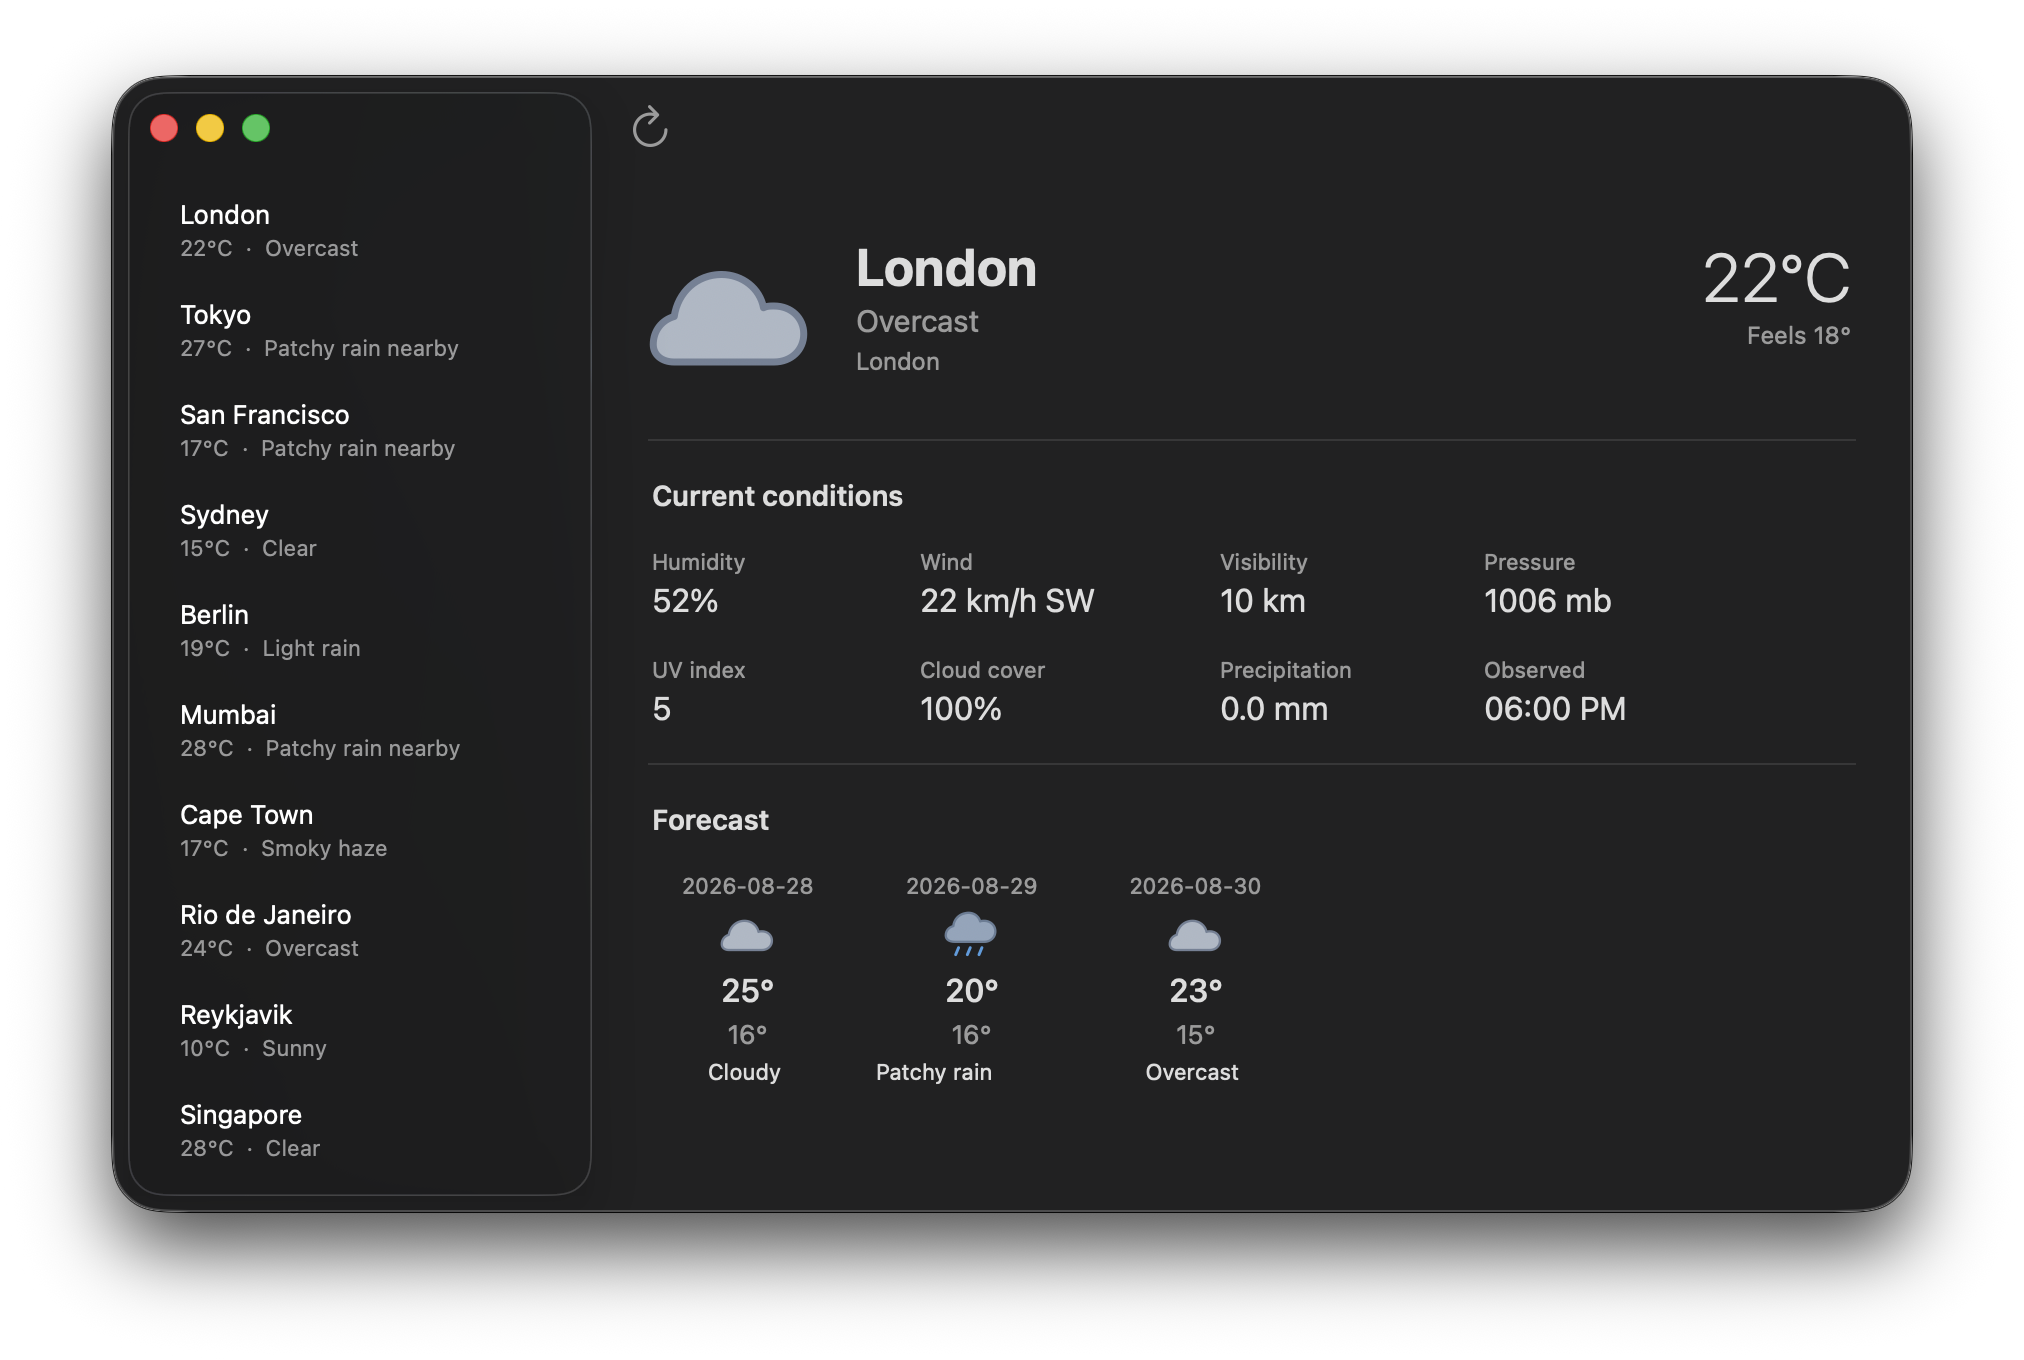
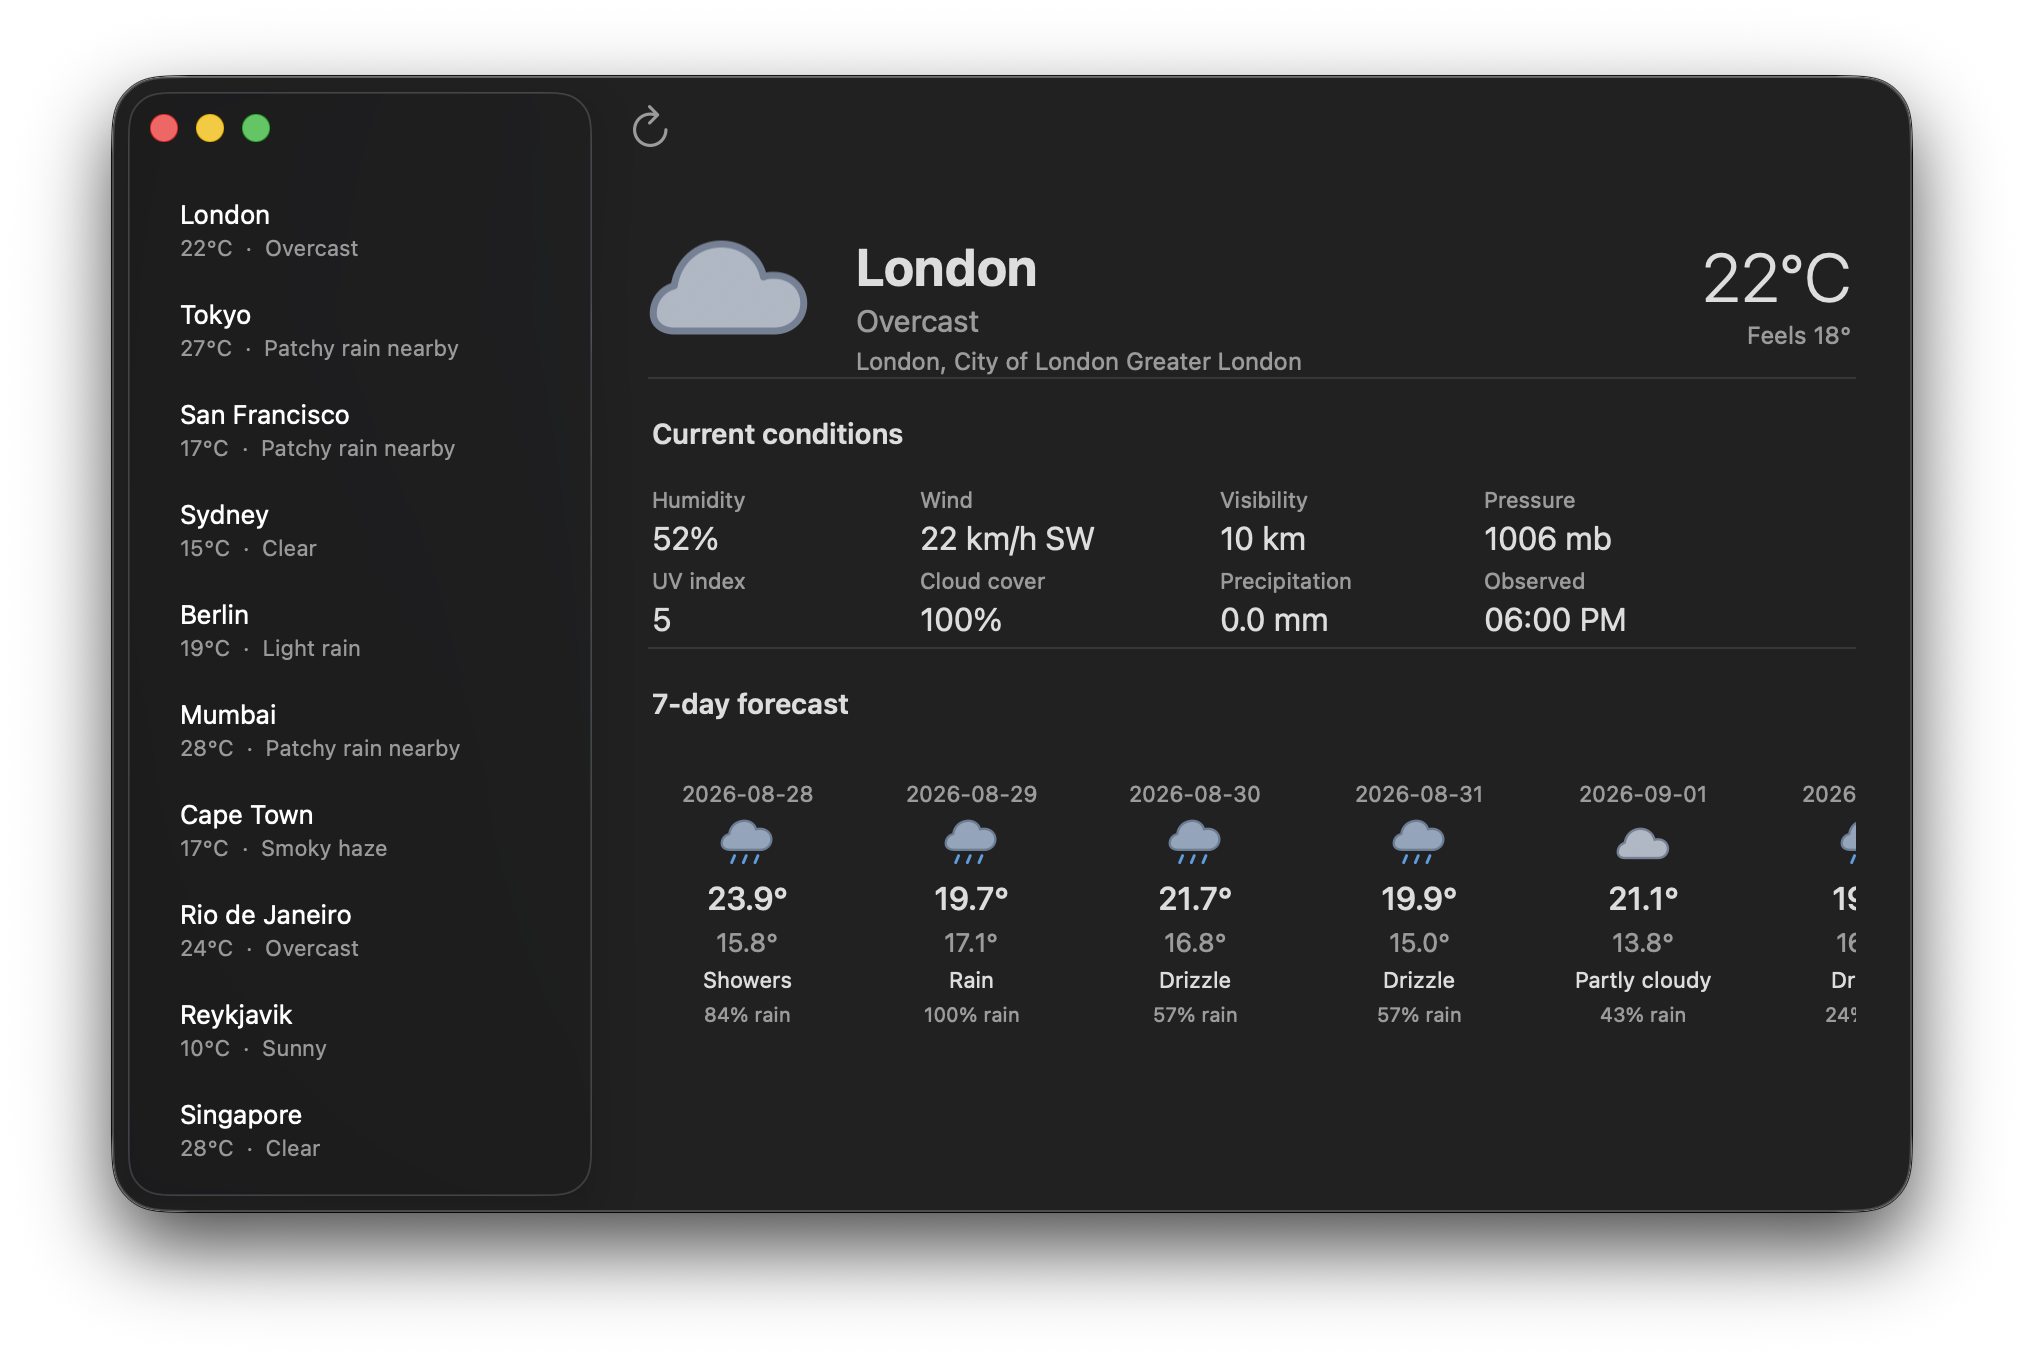
Add weekly weather forecast scrolling

diff --git a/src/appkit/constructors.m b/src/appkit/constructors.m
@@ -18,6 +18,29 @@ static int bridge_AppKitControls_hstack(lua_State *L) {
 	return 1;
 }
 
+static int bridge_AppKitControls_scrollView(lua_State *L) {
+	NSView *content = check_view(L, 1);
+	CGFloat contentWidth = (CGFloat)luaL_optnumber(L, 2, 0);
+	CGFloat contentHeight = (CGFloat)luaL_optnumber(L, 3, 0);
+
+	NSScrollView *obj = [[NSScrollView alloc] initWithFrame:NSZeroRect];
+	obj.hasHorizontalScroller = YES;
+	obj.hasVerticalScroller = NO;
+	obj.autohidesScrollers = YES;
+	obj.borderType = NSNoBorder;
+	obj.drawsBackground = NO;
+	obj.documentView = content;
+	if (contentWidth > 0 || contentHeight > 0) {
+		NSRect frame = content.frame;
+		frame.size.width = contentWidth > 0 ? contentWidth : frame.size.width;
+		frame.size.height = contentHeight > 0 ? contentHeight : frame.size.height;
+		content.frame = frame;
+		layout_recursive(content, frame.size.width);
+	}
+	push_objc(L, obj, "nsview");
+	return 1;
+}
+
 static int bridge_AppKitControls_hsplit(lua_State *L) {
 
 	NSSplitView *obj = [[NSSplitView alloc] initWithFrame:NSZeroRect];

diff --git a/src/main.m b/src/main.m
@@ -214,6 +214,7 @@ static const luaL_Reg bridge_lib[] = {
 	{"Rect", bridge_NSRect},
 	{"_vstack", bridge_AppKitControls_vstack},
 	{"_hstack", bridge_AppKitControls_hstack},
+	{"_scrollView", bridge_AppKitControls_scrollView},
 	{"_hsplit", bridge_AppKitControls_hsplit},
 	{"_vsplit", bridge_AppKitControls_vsplit},
 	{"_separator", bridge_AppKitControls_separator},

diff --git a/docs/agents/xml-syntax.md b/docs/agents/xml-syntax.md
@@ -29,6 +29,7 @@ attributes are ignored unless the tag documents them below.
 | `VStack` | Vertical native stack | `padding`, `paddingHorizontal`, `paddingVertical`, `spacing`, `alignment`, `flexGrow`, `flexShrink`, `fixedWidth`, `fixedHeight`, `minWidth`, `minHeight`, `maxWidth`, `maxHeight`, `fillWidth`, `fillHeight`, `hidden` |
 | `HStack` | Horizontal native stack | Same layout attributes as `VStack` |
 | `HSplit` | Horizontal split container | Same layout attributes as `VStack`; use `Window sidebar/content` for a window-level sidebar |
+| `ScrollView` | Native scroll container for one content child | `contentWidth`, `contentHeight`, `horizontal`, `vertical`, plus layout attributes |
 | `Spacer` | Flexible spacing view | Layout attributes |
 | `Divider` | Native separator | `orientation`, plus layout attributes |
 

diff --git a/docs/PROJECT_REFERENCE.md b/docs/PROJECT_REFERENCE.md
@@ -475,6 +475,24 @@ ns.VStack {
 }
 ```
 
+### `ScrollView{...}`
+
+Creates a native `NSScrollView` around one content view. Set
+`contentWidth` larger than the viewport to enable horizontal scrolling; the
+content view keeps that document width while the scroll view fills its parent.
+Use it for fixed-format rows such as a seven-day forecast.
+
+```lua
+ns.ScrollView {
+  content = ns.HStack { fixedWidth = 772, ... },
+  contentWidth = 772,
+  contentHeight = 164,
+  horizontal = true,
+  fixedHeight = 176,
+  fillWidth = true,
+}
+```
+
 ### `ForEach(data, content)` / `Group{...}`
 
 Use `ForEach` whenever sibling views share the same structure and differ only

diff --git a/docs/weather_app_example.md b/docs/weather_app_example.md
@@ -67,6 +67,12 @@ with cell formatters, selection callbacks, or a runtime data source. That is a
 framework documentation/API gap, not an application mistake. Until a schema
 API exists, use this pattern:
 
+The seven-day forecast is different: it is stable structure and therefore lives
+in etlua. Its seven 100-point cards occupy 772 points, so the native
+`ScrollView` keeps the cards readable and reveals a horizontal scroller when a
+window is narrower than the forecast.
+Open-Meteo supplies daily high/low, precipitation probability, wind, and UV values for the full week.
+
 ```lua
 local list = ns.List {
     style = "sourceList",
